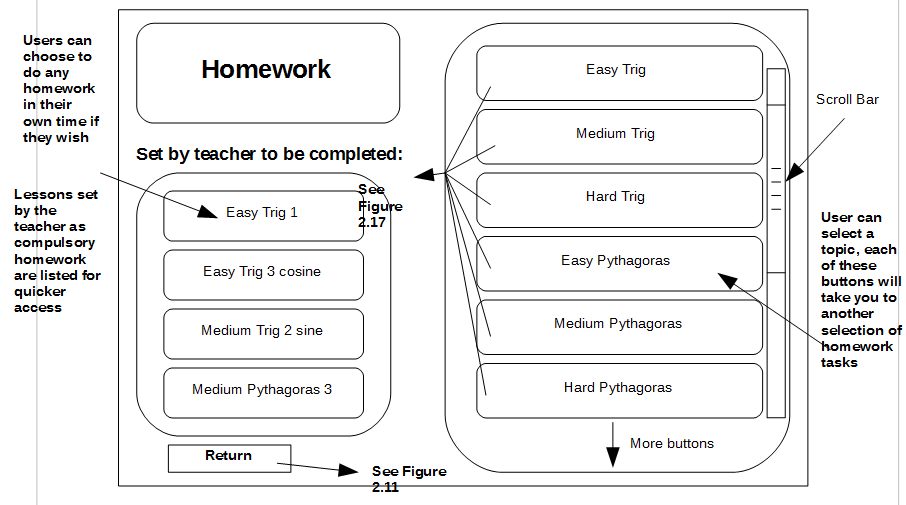
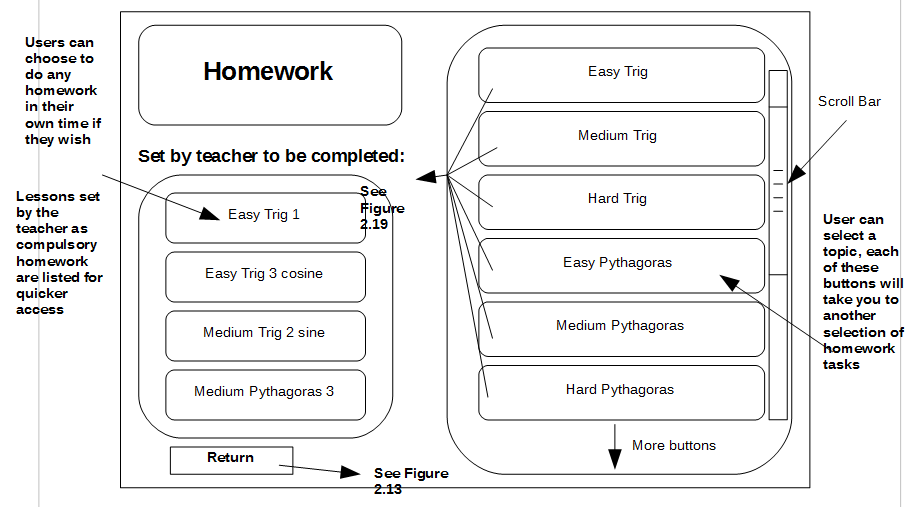
06/01/16

diff --git a/Design/design.tex b/Design/design.tex
@@ -9,6 +9,7 @@
 	\begin{itemize}
 		\item General User Interface
 		\item Getting Username and Password
+		\item Entering Users Into the System
 		\item Navigating User's Personal Account User Interface
 		\item Setting Homework From Administrator
 		\item Running Individual Lessons
@@ -17,6 +18,7 @@
 		\item Outputting Error Exception Messages
 		\item Recording Homework Results On Database
 		\item Viewing Results in Database
+		\item Querying the Database
 	\end{itemize}
 \end{itemize}
 
@@ -34,6 +36,14 @@
 		\item This will come in the very first window every time the user or administrator wants to access the program; it will ask them to log in so that they can view their own personal account, with all of their homework progress and personal records.
 		\item It will mainly consist of two text boxes in the centre of the screen, one prompting a username and the other a password underneath. 
 		\item If invalid information is input it will display an error message asking the user to retry. There will be no limit to the number of attempts a user can have; it won't lock them out of their computer if they keep getting it wrong.
+	\end{itemize}
+\end{itemize}
+
+\begin{itemize}
+	\item Entering Users Into the System
+	\begin{itemize}
+		\item The administrator will be able to click a button from their home screen which will like them to an administration window from which they can add names and classes
+		\item They will input a name, then click submit to finish, or submit and add another to continue adding names, or select the add class button which will take them to a similar window to add a class
 	\end{itemize}
 \end{itemize}
 
@@ -116,6 +126,14 @@
 		\item A teacher will be able to click a button on the home screen to take them to the database view, where they will clearly see all of the students results in any of their own classes, and they will be able to scroll through each student in alphabetical order on a scroll bar on the side to find individual's results
 		\item An administrator (teacher) can amend a database value if it is necessary, although it is unlikely that it will be
 		\item A return button will take them straight back to the home page to continue using the system
+	\end{itemize}
+\end{itemize}
+
+\begin{itemize}
+	\item Querying the Database
+	\begin{itemize}
+		\item An administrator or student eill be able to query the databases they can access by using the report window, where admins can select a class, student, task and/or score and be given all database entries with the relevant information. Students will only be able to query tasks and scores to comply with their access authorisation
+		\item The system will be queried using SQL statements provided by combining the user's selections from the report window
 	\end{itemize}
 \end{itemize}
 
@@ -274,18 +292,38 @@
 \end{figure}
 
 \begin{figure}[H]
-    \label{fig:print_function_result}\caption{ErrorMessage3}
+    \label{fig:print_function_result}
     \includegraphics[width=\textwidth]{C:/Users/Jordan/git/COMP4Coursework2/Design/figure_2_27}
 \end{figure}
 
 \begin{figure}[H]
-    \label{fig:print_function_result}\caption{ErrorMessage3}
+    \label{fig:print_function_result}
     \includegraphics[width=\textwidth]{C:/Users/Jordan/git/COMP4Coursework2/Design/figure_2_28}
 \end{figure}
 
 \begin{figure}[H]
-    \label{fig:print_function_result}\caption{ErrorMessage4}
+    \label{fig:print_function_result}
     \includegraphics[width=\textwidth]{C:/Users/Jordan/git/COMP4Coursework2/Design/figure_2_29}
+\end{figure}
+
+\begin{figure}[H]
+    \label{fig:print_function_result}\caption{Administrator Query Window}
+    \includegraphics[width=\textwidth]{C:/Users/Jordan/git/COMP4Coursework2/Design/figure_2_030}
+\end{figure}
+
+\begin{figure}[H]
+    \label{fig:print_function_result}\caption{Student Query Window}
+    \includegraphics[width=\textwidth]{C:/Users/Jordan/git/COMP4Coursework2/Design/figure_2_031}
+\end{figure}
+
+\begin{figure}[H]
+    \label{fig:print_function_result}\caption{Administration Names Window}
+    \includegraphics[width=\textwidth]{C:/Users/Jordan/git/COMP4Coursework2/Design/figure_2_032}
+\end{figure}
+
+\begin{figure}[H]
+    \label{fig:print_function_result}\caption{Administration Class Window}
+    \includegraphics[width=\textwidth]{C:/Users/Jordan/git/COMP4Coursework2/Design/figure_2_033}
 \end{figure}
 
 \section{Hardware Specification}
@@ -849,6 +887,26 @@ OutputError \\ \hline
     \includegraphics[width=\textwidth]{C:/Users/Jordan/git/COMP4Coursework2/Design/pyqt_figure_21}
 \end{figure}
 
+\begin{figure}[H]
+    \label{fig:print_function_result}\caption{Administrator Report Widget: Appears if the user selects the 'report' button from the progress screen, and allows the user to quickly query the database by selecting criteria for an SQL search statement. Can also query an entire clsas or a student, unlike students whi have restricted use.}
+    \includegraphics[width=\textwidth]{C:/Users/Jordan/git/COMP4Coursework2/Design/pyqt_figure_22}
+\end{figure}
+
+\begin{figure}[H]
+    \label{fig:print_function_result}\caption{Student Report Widget: Appears if the user selects the 'report' button from the progress screen, and allows the user to quickly query the database by selecting criteria for an SQL search statement.}
+    \includegraphics[width=\textwidth]{C:/Users/Jordan/git/COMP4Coursework2/Design/pyqt_figure_23}
+\end{figure}
+
+\begin{figure}[H]
+    \label{fig:print_function_result}\caption{Administration Names Widget: The administrator can use this window to add students into the system. Is accessible from the admin home screen.}
+    \includegraphics[width=\textwidth]{C:/Users/Jordan/git/COMP4Coursework2/Design/pyqt_figure_24}
+\end{figure}
+
+\begin{figure}[H]
+    \label{fig:print_function_result}\caption{Administration Class Widget: The administrator can use this window to add classes into the system. Is accessible from the admin home screen.}
+    \includegraphics[width=\textwidth]{C:/Users/Jordan/git/COMP4Coursework2/Design/pyqt_figure_25}
+\end{figure}
+
 \section{Definition of Data Requirements}
 
 \subsection{Identification of all data input items}
@@ -910,6 +968,19 @@ OutputError \\ \hline
 			\item Progress button
 			\item Result selection buttons
 			\item Feedback
+		\end{itemize}
+		\item Report Screen:
+		\begin{itemize}
+			\item Class selection combo box
+			\item Student selection combo box
+			\item Task selection combo box
+			\item Score selection combo box
+		\end{itemize}
+		\item Administration:
+		\begin{itemize}
+			\item Student FirstName
+			\item Student LastName
+			\item ClassID
 		\end{itemize}
 		\item Previous button
 		\item Next button
@@ -1679,6 +1750,18 @@ Score Requirements & 75\% & Presence check & Makes sure a score percentage has b
 1.426 & To test the Result buttons on the results menu screen functions as intended & This should link to the results of the corresponding homework in the database viewer for the entire class & Click the results button(s) & Normal & The results for the corresponding homework across the class should be displayed in the database viewer & & \\ \hline
 1.427 & To test the return button on the results menu screen functions as intended & This should link back to the administrator account home screen & Click the return button & Normal & The administrator account home screen should be displayed & & \\ \hline
 1.428 & To test the return button on the admin progress database viewer screen functions as intended & This should link back to the administrator account home screen & Click the return button & Normal & The administrator account home screen should be displayed & & \\ \hline
+1.429 & To test the return button on the administrator report screen functions as intended & This should link back to the admin progress screen & Click the return button & Normal & The administrator progress screen should be displayed & & \\ \hline
+1.430 & To test the query button on the administrator report screen functions as intended & This should link back to the admin progress screen and new queried information should be displayed & Click the query button & Normal & The admin progress screen should be displayed with updated data in the database widget & & \\ \hline
+1.431 & To test the return button on the student report screen functions as intended & This should link back to the student progress screen & Click the return button & Normal & The student progress screen should be displayed & & \\ \hline
+1.432 & To test the query button on the student report screen functions as intended & This should link back to the student progress screen and new queried information should be displayed & Click the query button & Normal & The student progress screen should be displayed with updated data in the database widget & & \\ \hline
+1.433 & To test the add class button on the add names widget functions as intended & This should link to the add class screen & Click the add class button & Normal & The add class screen should be displayed & & \\ \hline
+1.434 & To test the add name button on the add names widget functions as intended & This should add a name to the system and link back to the admin home screen & Click the add name button & Normal & The name should be stored and the admin home screen should be displayed & & \\ \hline
+1.435 & To test the add another button on the add names widget functions as intended & This should add a name to the system and remain on the same page for the process to repeat & Click the add another button & Normal & The name should be added to the sytem and the input boxes wiped ready for another name & & \\ \hline
+1.436 & To test the return button on the add names widget functions as intended & This should link back to the admin home screen & Click the return button & Normal & The admin home screen should be displayed & & \\ \hline
+1.437 & To test the add stduents button on the add class widget functions as intended & This should link to the add names screen & Click the add students button & Normal & The add names screen should be displayed & & \\ \hline
+1.438 & To test the add class button on the add class widget functions as intended & This should add a class to the system and then return to the admin home screen & Click the add class button & Normal & The class should be added to the system and the admin home screen should be displayed & & \\ \hline
+1.439 & To test the add another button on the add class widget functions as intended & This should add a class to the system and remain on the same page for the process to repeat & Click the add another button & Normal & The class should be added to the sytem and the input boxes wiped ready for another class & & \\ \hline
+1.440 & To test the return button on the add class widget functions as intended & This should link back to the admin home screen & Click the return button & Normal & The admin home screen should be displayed & & \\ \hline
 2.001 & To test that the system can recognise a user's username when input correctly and allow access to their account & This should allow the user access to their account & Input User1 & Erroneous, Presence & The username should be accepted and the user allowed access (alongside a correct password) & & \\ \hline
 2.002 & To test that the system can recognise a user's password when input correctly and allow access to their account & This should allow the user access to their account & Input d8g3h6g & Erroneous, Presence & The password should be accepted and the user allowed access to their account (alongside a correct username) & & \\ \hline
 2.003 & To test that the input for the practice question on the Sides second lesson screen is properly checked as correct or incorrect & This should truthfully notify the user whether they were right or wrong & 45 degrees & Boundary, Erroneous, Presence & The user should be notified whether or not they were right & & \\ \hline
@@ -1969,6 +2052,15 @@ Score Requirements & 75\% & Presence check & Makes sure a score percentage has b
 2.288 & To test that the feedback box for the Summary Easy homework functions as intended & This should accept a string of text from an administrator and make it available for the corresponding student to view & Very good work & Normal, Presence & The corresponding student should then be able to view this feedback & & \\ \hline
 2.289 & To test that the feedback box for the Summary Medium homework functions as intended & This should accept a string of text from an administrator and make it available for the corresponding student to view & Very good work & Normal, Presence & The corresponding student should then be able to view this feedback & & \\ \hline
 2.290 & To test that the feedback box for the Summary Hard homework functions as intended & This should accept a string of text from an administrator and make it available for the corresponding student to view & Very good work & Normal, Presence & The corresponding student should then be able to view this feedback & & \\ \hline
+2.291 & To test the the class selection combo box on the admin report screen functions as intended & This should accept a class selected from the combo box and use it in the SQL statement to query the database & 10A & Normal, Presence & The input should be used in the SQL statement to give relevant information & & \\ \hline
+2.292 & To test the the student selection combo box on the admin report screen functions as intended & This should accept a student selected from the combo box and use it in the SQL statement to query the database & 10A & Normal, Presence & The input should be used in the SQL statement to give relevant information & & \\ \hline
+2.293 & To test the the task selection combo box on the admin report screen functions as intended & This should accept a task selected from the combo box and use it in the SQL statement to query the database & 10A & Normal, Presence & The input should be used in the SQL statement to give relevant information & & \\ \hline
+2.294 & To test the the score selection combo box on the admin report screen functions as intended & This should accept a score selected from the combo box and use it in the SQL statement to query the database & 10A & Normal, Presence & The input should be used in the SQL statement to give relevant information & & \\ \hline
+2.295 & To test the the task selection combo box on the student report screen functions as intended & This should accept a task selected from the combo box and use it in the SQL statement to query the database & 10A & Normal, Presence & The input should be used in the SQL statement to give relevant information & & \\ \hline
+2.296 & To test the the score selection combo box on the student report screen functions as intended & This should accept a score selected from the combo box and use it in the SQL statement to query the database & 10A & Normal, Presence & The input should be used in the SQL statement to give relevant information & & \\ \hline
+2.297 & To test the FirstName line edit on the add names widget functions as intended & This should accept the name given, validate it as a name and store it in the database & John & Erroneous, Presence & The name should be validated and added to the database & & \\ \hline
+2.298 & To test the LastName line edit on the add names widget functions as intended & This should accept the name given, validate it as a name and store it in the database & Smith & Erroneous, Presence & The name should be validated and added to the database & & \\ \hline
+2.299 & To test the ClassID line edit on the add class widget functions as intended & This should accept the class given, validate it as a ClassID and store it in the database & 10A & Erroneous, Presence & The class should be validated and added to the database & & \\ \hline
 3.001 & To test that the ClassID is stored in the correct place in the database & This should be stored as a primary key and should not be displayed at any point in the system & 10A & Presence, Normal & The ClassID should be stored as a primary key in the Class database & & \\ \hline
 3.002 & To test that the UserIDs are all stored in the correct place in the database & These should be stored as primary keys and should be displayed on account home screens & 0001 & Presence, Normal & The UserIDs should be stored as a primary key in the Class Database and in the User's database & & \\ \hline
 3.003 & To test that the student's FirstNames are all stored in the correct place in the database & These should be stored and visible only by the user whose first name it is in their personal task database & John & Presence, Normal & The FirstNames should be stored in the User's database and visible together by the administrator or individually by the respective student & & \\ \hline

diff --git a/Implementation/login_screen_window.py b/Implementation/login_screen_window.py
@@ -8,7 +8,9 @@ from admin_account_home import *
 from homework_set_screen import *
 from results_menu_widget import *
 from error_messages import *
-
+###
+##from temp import *
+###
 import sys
 
 class MyWindow(QMainWindow):
@@ -17,9 +19,10 @@ class MyWindow(QMainWindow):
         super().__init__()
 
         self.login_widget = LoginWidget()
-        self.student_home = UserAccountWidget(self)
-##        self.student_home = AdminAccountWidget()
+##        self.student_home = UserAccountWidget(self)
+        self.student_home = AdminAccountWidget()
 ##        self.student_home = AnyWidget()
+##        self.student_home = RWidget()
 
 ##        self.student_home = HomeworkSetScreen()  
 
